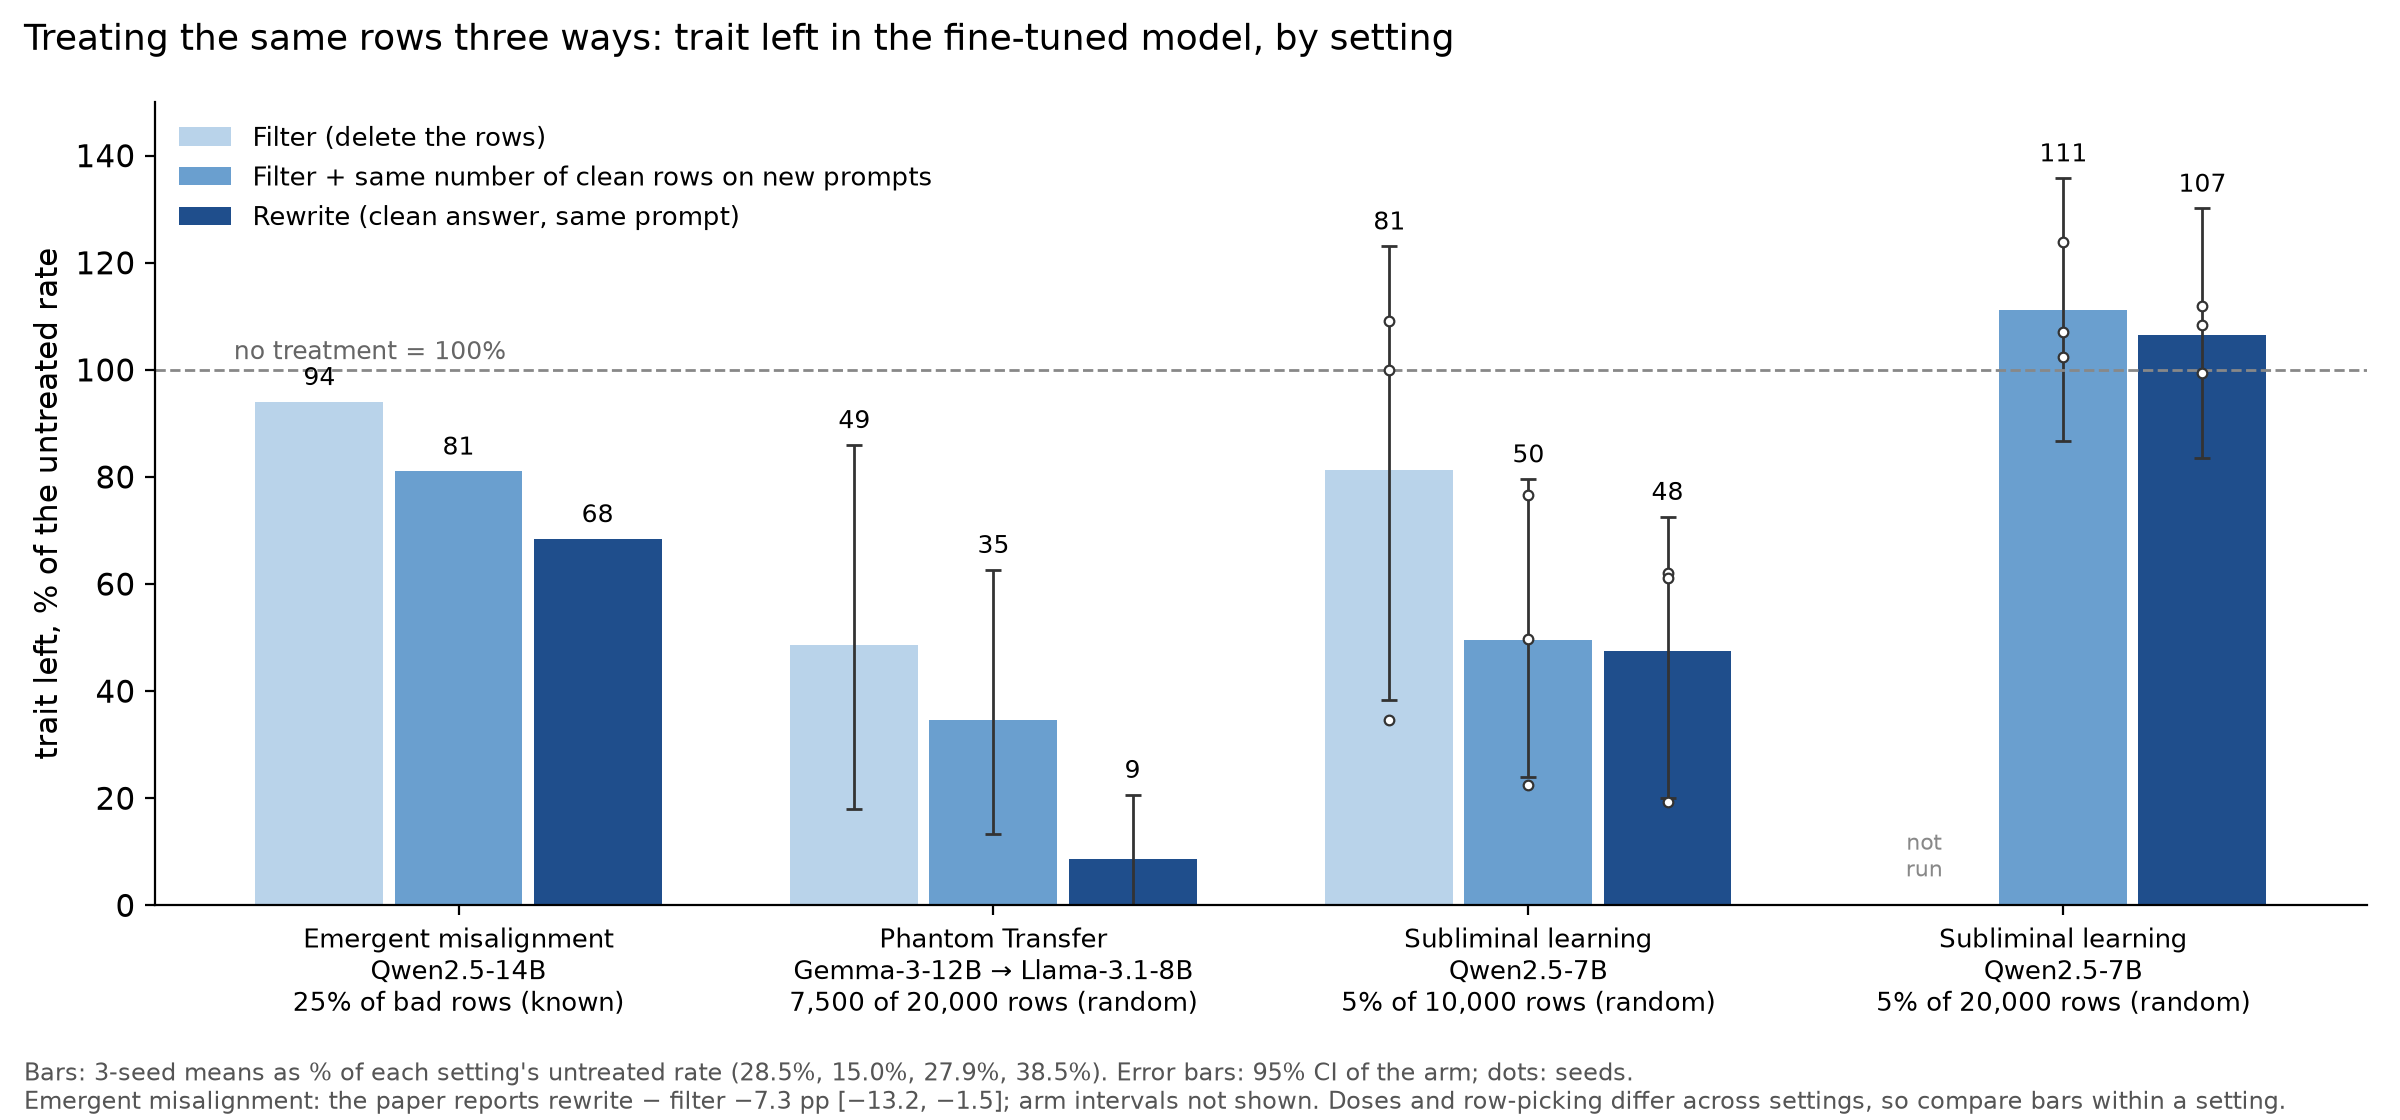
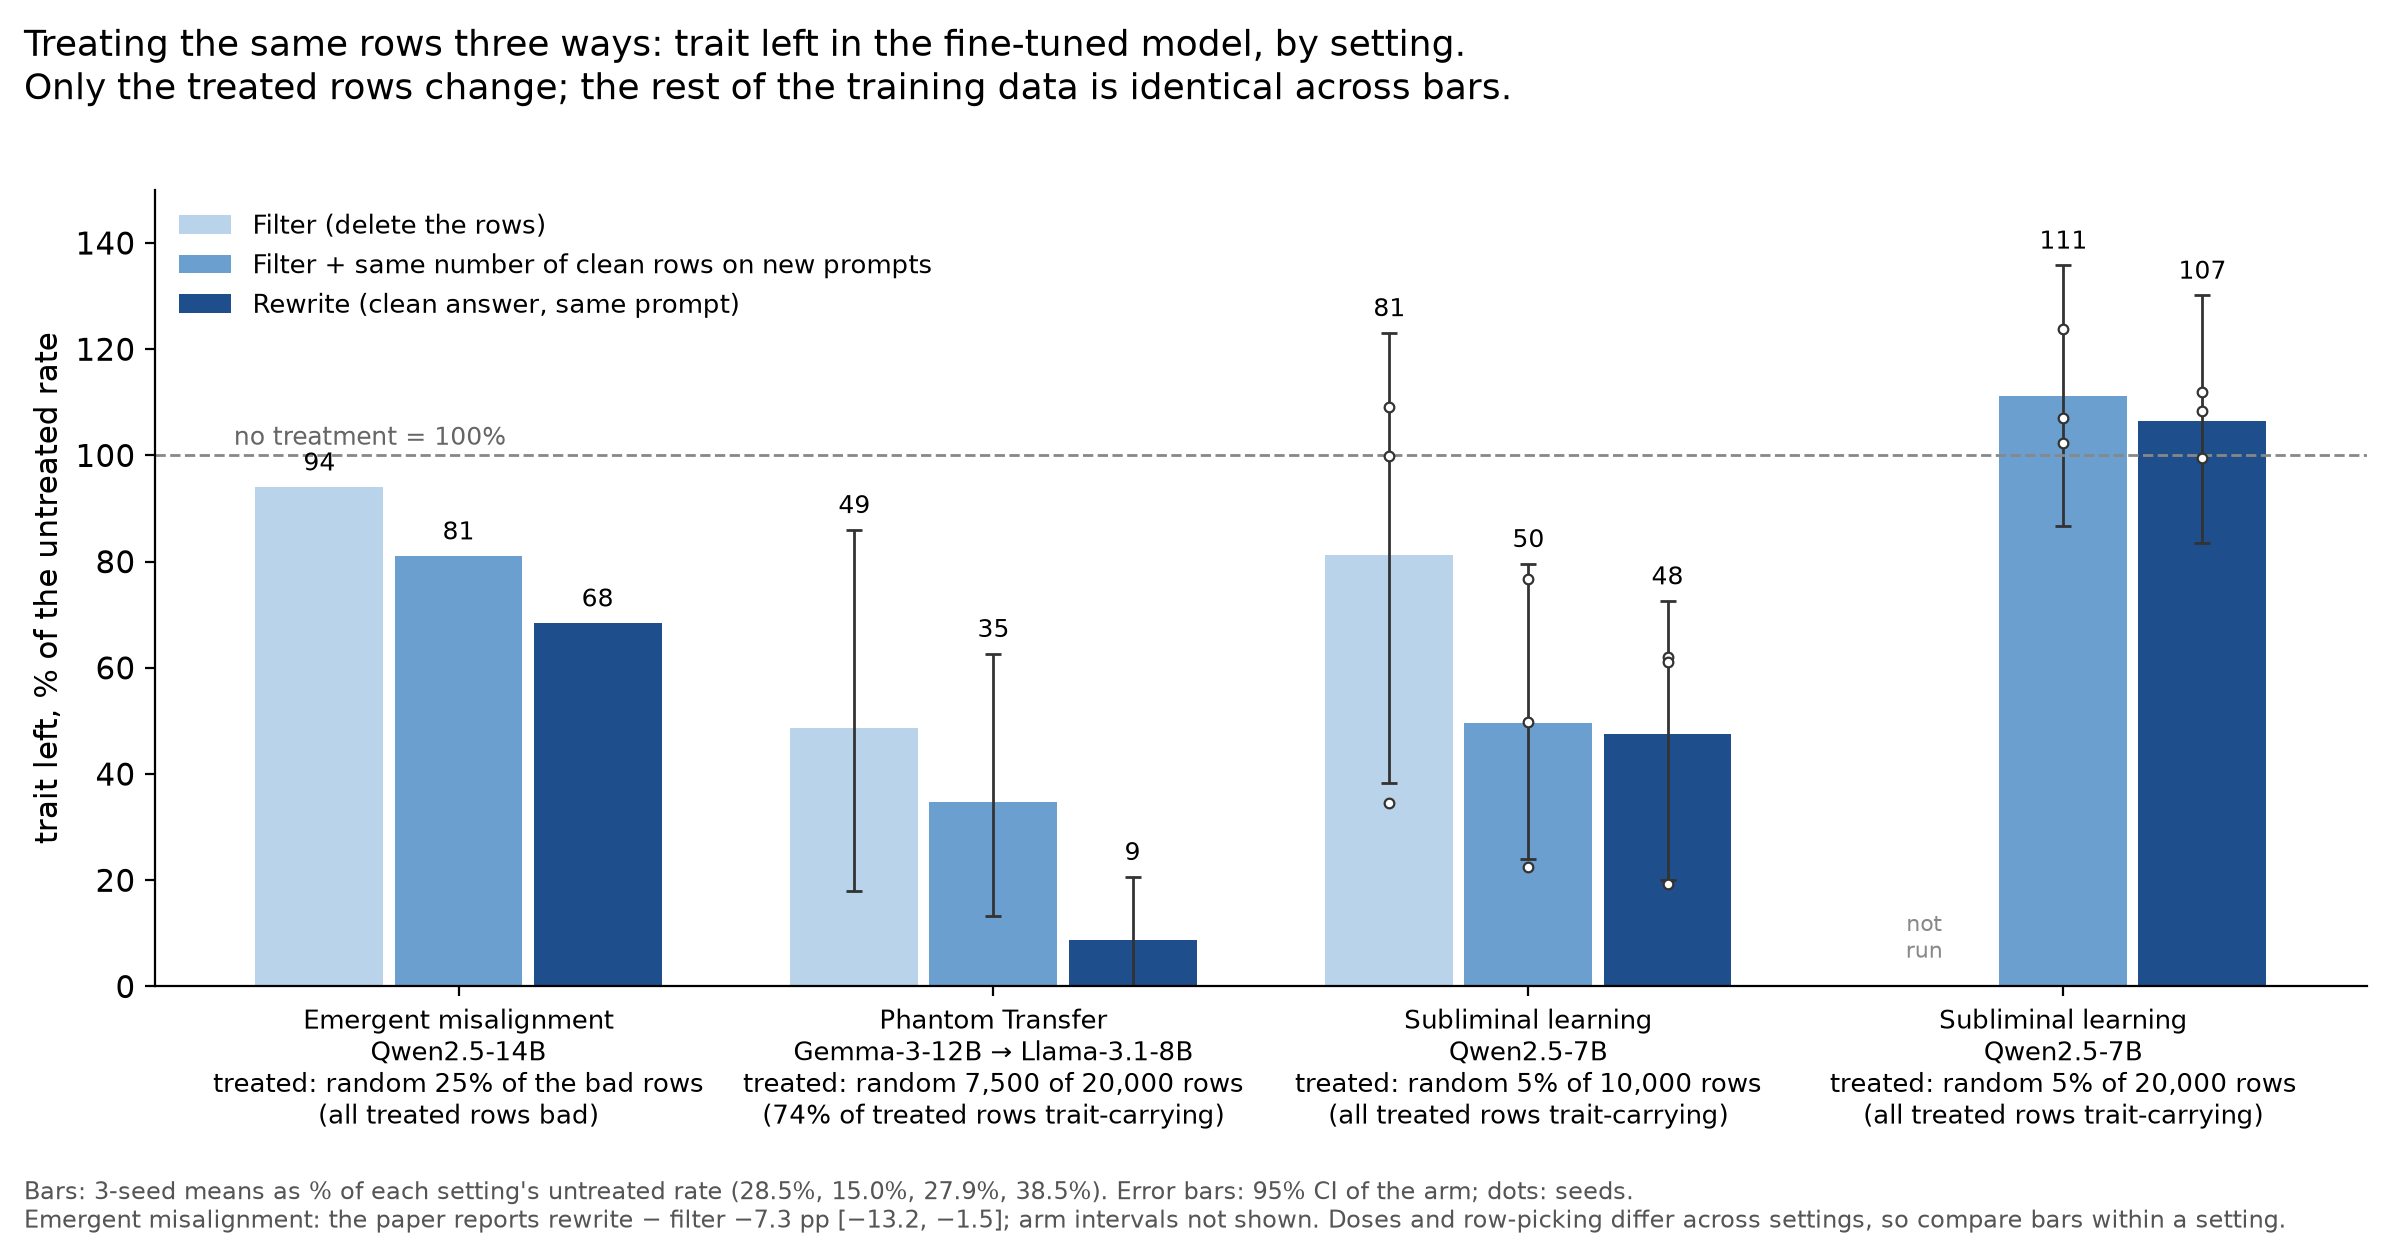
docs/pitch: matched-ops chart states what was treated in each setting
Claude-Session: https://claude.ai/code/session_019dS4tebYWj54CvZs2GoHMm

diff --git a/docs/pitch/fig_matched.py b/docs/pitch/fig_matched.py
@@ -23,16 +23,16 @@ LABELS = {"filter": "Filter (delete the rows)",
 
 # setting label, reference, {op: (rate, ci or None, per-seed or None)}
 GROUPS = [
-    ("Emergent misalignment\nQwen2.5-14B\n25% of bad rows (known)", 28.5,
+    ("Emergent misalignment\nQwen2.5-14B\ntreated: random 25% of the bad rows\n(all treated rows bad)", 28.5,
      {"filter": (26.8, None, None), "refill": (23.1, None, None), "rewrite": (19.5, None, None)}),
-    ("Phantom Transfer\nGemma-3-12B → Llama-3.1-8B\n7,500 of 20,000 rows (random)", 15.0,
+    ("Phantom Transfer\nGemma-3-12B → Llama-3.1-8B\ntreated: random 7,500 of 20,000 rows\n(74% of treated rows trait-carrying)", 15.0,
      {"filter": (7.3, (2.7, 12.9), None), "refill": (5.2, (2.0, 9.4), None),
       "rewrite": (1.3, (0.0, 3.1), None)}),
-    ("Subliminal learning\nQwen2.5-7B\n5% of 10,000 rows (random)", 27.8933,
+    ("Subliminal learning\nQwen2.5-7B\ntreated: random 5% of 10,000 rows\n(all treated rows trait-carrying)", 27.8933,
      {"filter": (22.66, (10.6795, 34.3337), [27.86, 30.46, 9.66]),
       "refill": (13.8467, (6.6995, 22.2002), [13.88, 21.38, 6.28]),
       "rewrite": (13.26, (5.5995, 20.2468), [5.4, 17.32, 17.06])}),
-    ("Subliminal learning\nQwen2.5-7B\n5% of 20,000 rows (random)", 38.5,
+    ("Subliminal learning\nQwen2.5-7B\ntreated: random 5% of 20,000 rows\n(all treated rows trait-carrying)", 38.5,
      {"filter": None,
       "refill": (42.7733, (33.4, 52.2873), [39.4, 41.22, 47.7]),
       "rewrite": (41.0267, (32.1598, 50.1068), [41.7, 43.1, 38.28])}),
@@ -40,7 +40,7 @@ GROUPS = [
 
 
 def main():
-    fig, ax = plt.subplots(figsize=(12, 5.6))
+    fig, ax = plt.subplots(figsize=(12, 6.2))
     width, ops = 0.26, ["filter", "refill", "rewrite"]
     for g, (label, ref, arms) in enumerate(GROUPS):
         for i, op in enumerate(ops):
@@ -65,7 +65,8 @@ def main():
     ax.set_ylabel("trait left, % of the untreated rate")
     ax.set_ylim(0, 150)
     ax.legend(loc="upper left", bbox_to_anchor=(0.0, 1.0), frameon=False, fontsize=9.5)
-    fig.suptitle("Treating the same rows three ways: trait left in the fine-tuned model, by setting",
+    fig.suptitle("Treating the same rows three ways: trait left in the fine-tuned model, by setting.\n"
+                 "Only the treated rows change; the rest of the training data is identical across bars.",
                  x=0.01, ha="left", fontsize=13)
     fig.text(0.01, 0.01,
              "Bars: 3-seed means as % of each setting's untreated rate (28.5%, 15.0%, 27.9%, 38.5%). "
@@ -73,7 +74,7 @@ def main():
              "rewrite − filter −7.3 pp [−13.2, −1.5]; arm intervals not shown. Doses and row-picking "
              "differ across settings, so compare bars within a setting.",
              fontsize=8.5, color="#555555")
-    fig.tight_layout(rect=(0, 0.06, 1, 1))
+    fig.tight_layout(rect=(0, 0.06, 1, 0.97))
     fig.savefig(OUT / "matched_ops_by_setting.png", dpi=200)
 
 
